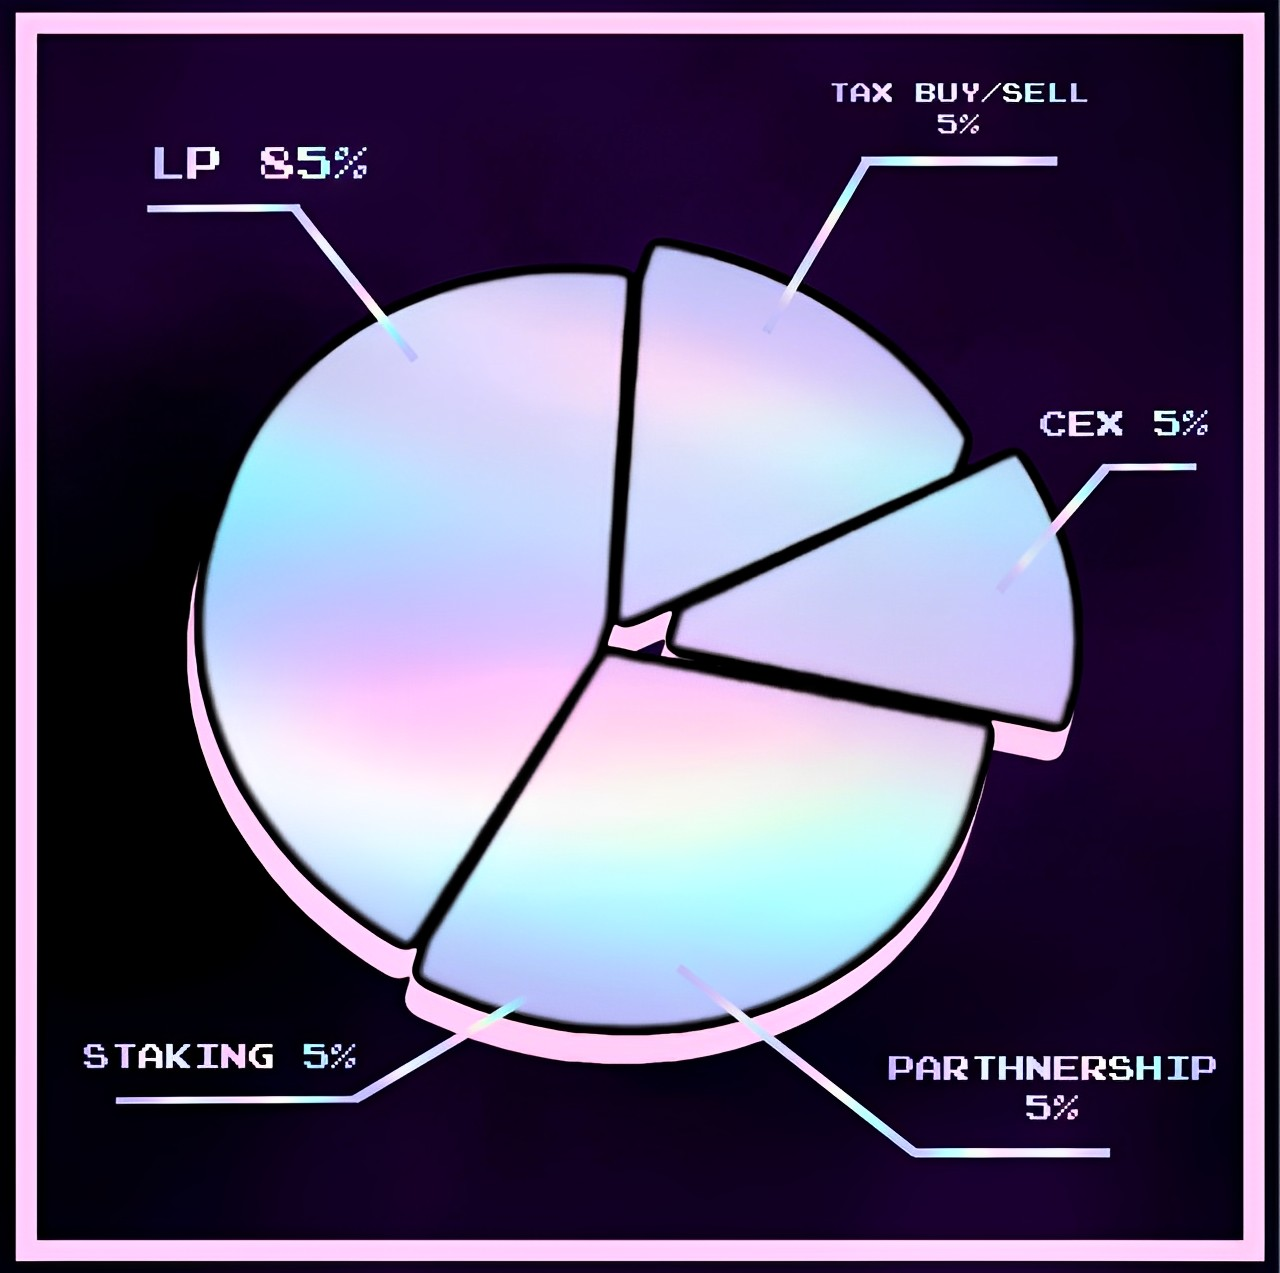
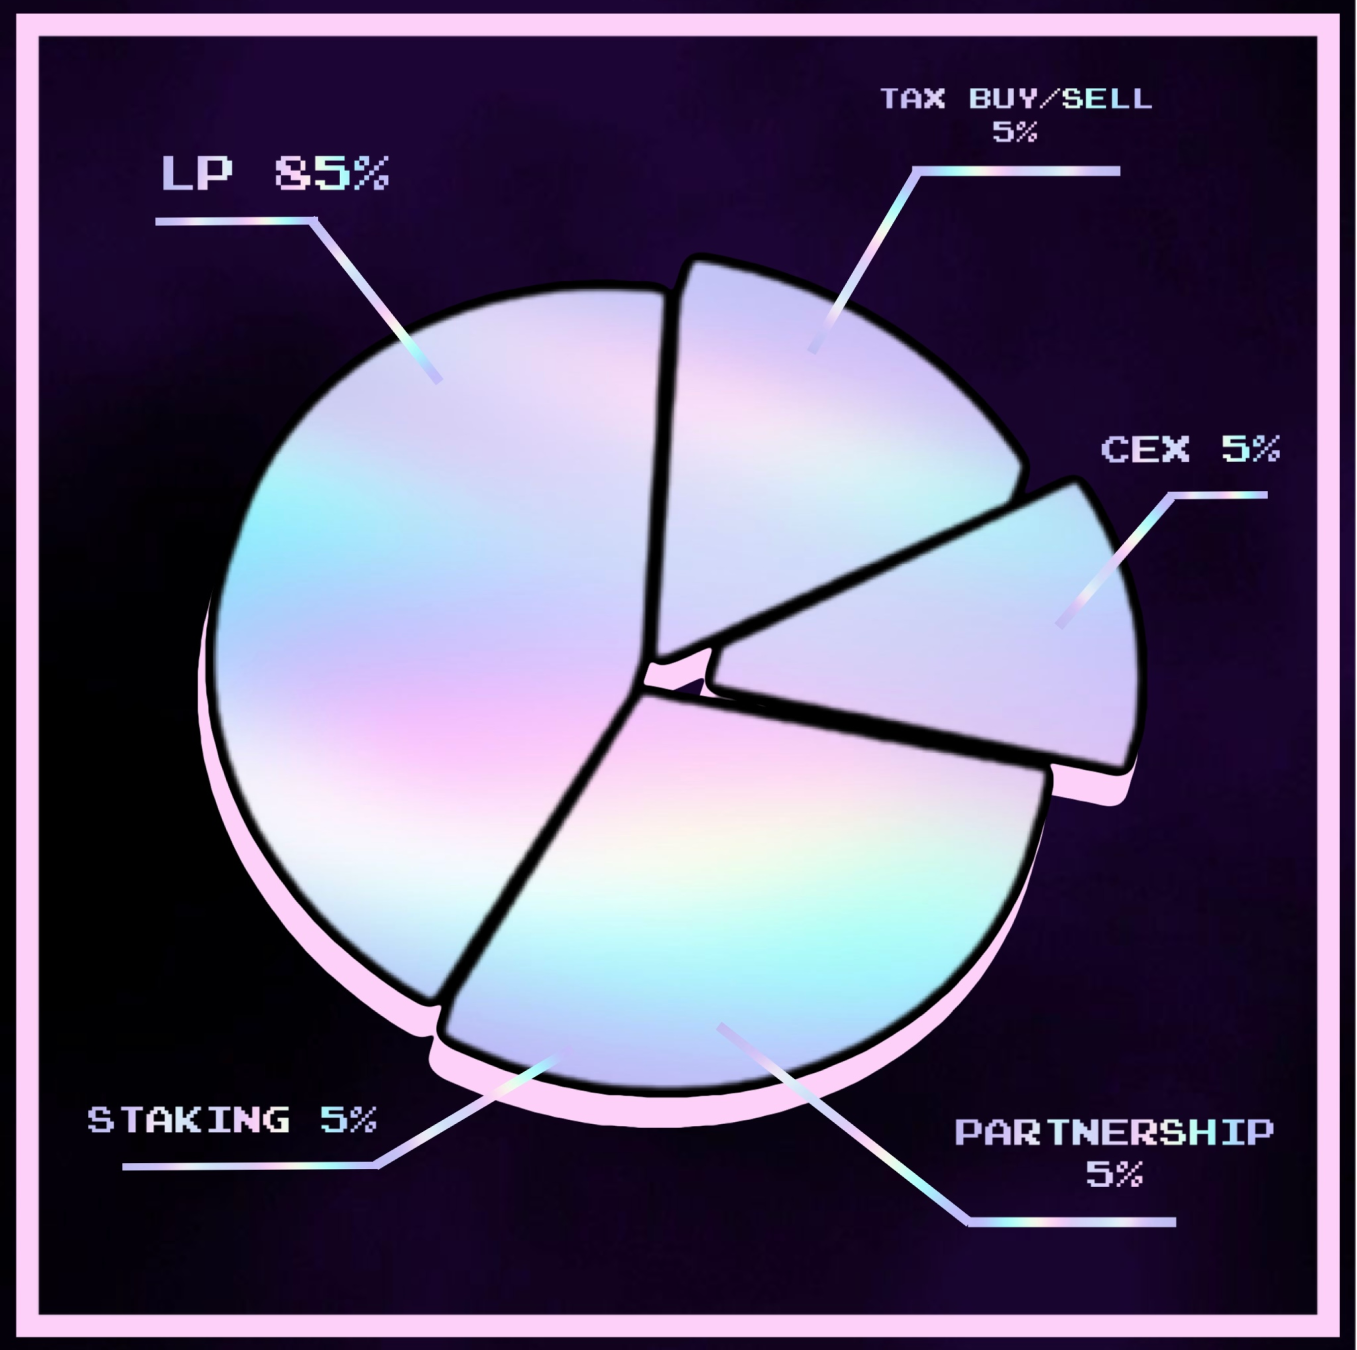
update: tokenomic

diff --git a/src/features/Home/Section3/index.tsx b/src/features/Home/Section3/index.tsx
@@ -25,7 +25,7 @@ const Section3: React.FC<Props> = () => {
       <div className="h-20 sm:h-16 xl:h-20" />
       <Tokenomic />
 
-      <div className="h-20 sm:h-16 xl:h-32" />
+      <div className="h-28 xl:h-32" />
       <div className="w-full h-full max-w-screen-xl mx-auto">
         <div className="relative flex lg:px-2 xl:px-16 2xl:px-0">
           <div className="w-full sm:w-3/4 lg:w-1/2">

diff --git a/src/features/Home/Section3/Tokenomic.tsx b/src/features/Home/Section3/Tokenomic.tsx
@@ -54,7 +54,7 @@ export const Tokenomic: React.FC<Props> = () => {
               <Image
                 src={TokenDistribution}
                 alt="tokenomic"
-                className="rounded-xl sm:h-[50vw] 2xl:h-full 3xl:h-[25vw]"
+                className="rounded-xl sm:h-[50vw] 2xl:h-[35vw] 3xl:h-[25vw]"
               />
             </div>
             <div
